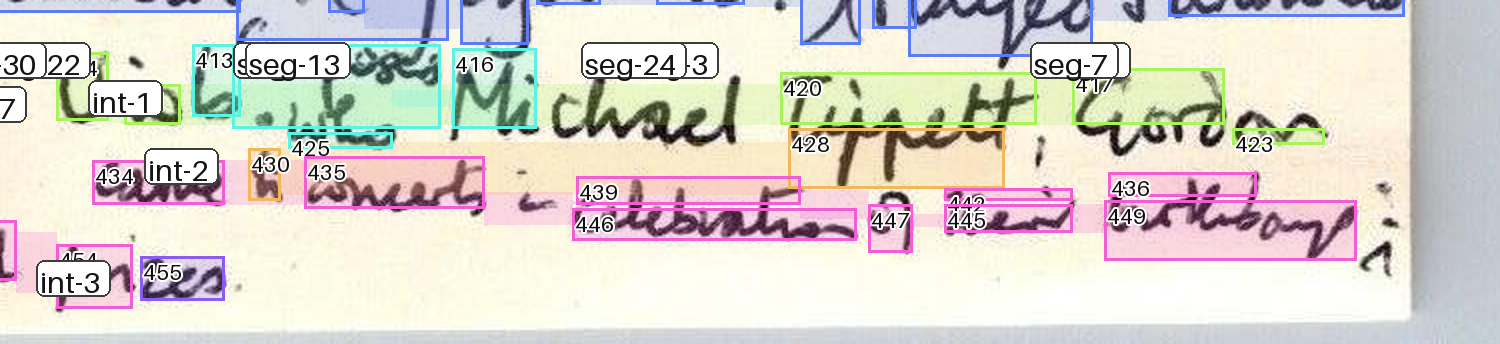
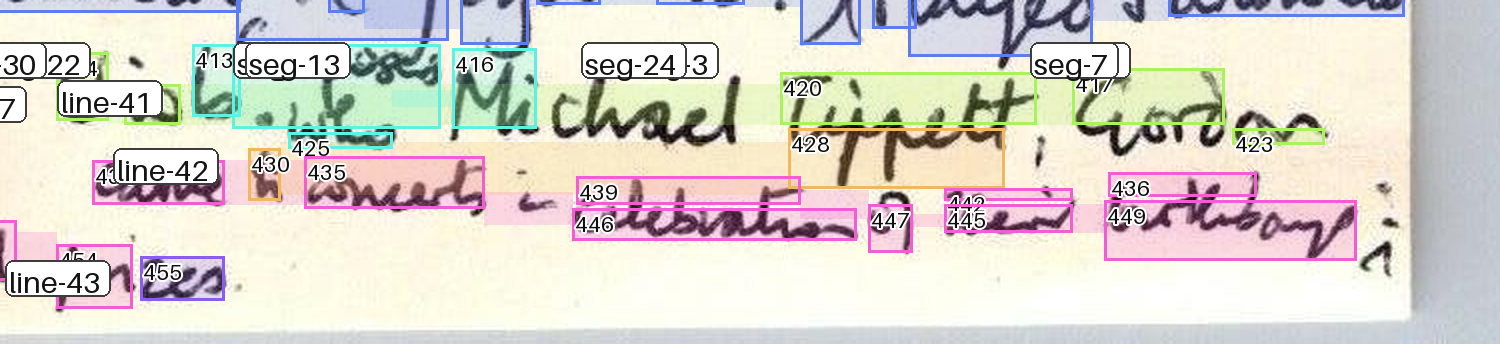
spike: user-facing line labels end to end
seg-40 is the last main line; line-41/42/43 are the bottom's small lines.
The renderer prints mapping names verbatim — no positional numbers, no
seg-38/40/41 fiction. The mapping test pins seg-40 + line-41/42/43.

Changed region(s): [[0.0613, 0.436, 0.1227, 0.5523], [0.0307, 0.2326, 0.092, 0.3488], [0.0, 0.7558, 0.0613, 0.8721]]

diff --git a/tests/test_spike_gold.py b/tests/test_spike_gold.py
@@ -558,7 +558,7 @@ EXPECTED_MAPPING = {
         421,
         423,
     ],
-    "seg-last-main": [
+    "seg-40": [
         427,
         429,
         431,
@@ -586,28 +586,23 @@ EXPECTED_MAPPING = {
         453,
         454,
     ],
-    "int-1": [415, 413, 416, 425],
-    "int-2": [428, 430],
-    "int-3": [455],
+    "line-41": [415, 413, 416, 425],
+    "line-42": [428, 430],
+    "line-43": [455],
 }
 
 
 def test_gold_matches_the_adjudicated_mapping() -> None:
     """Every word sits in exactly the segment the user confirmed — a
-    regression anywhere moves a word and this falls over. The bottom words
-    still fail today (the split the user called worse) — that is the pinned
-    defect, not a pass."""
+    regression anywhere moves a word and this falls over. EXPECTED_MAPPING
+    is the whole letter including the bottom's line-41/42/43."""
     segments = build_gold(FIXTURE)
     expected_ids = {i for seg in EXPECTED_MAPPING.values() for i in seg}
     actual = {r: seg["id"] for seg in segments for r in seg["word_ids"]}
     for seg, ids in EXPECTED_MAPPING.items():
         for word in ids:
             assert actual.get(word) == seg, f"word {word}: got {actual.get(word)}, expected {seg}"
-    from tools.spike_gold import INTERJECTION_WORDS
-
-    assert set(actual) == expected_ids | INTERJECTION_WORDS, (
-        f"claimed set differs: {sorted(set(actual) ^ (expected_ids | INTERJECTION_WORDS))[:10]}"
-    )
+    assert set(actual) == expected_ids, f"claimed set differs: {sorted(set(actual) ^ expected_ids)[:10]}"
 
 
 def test_each_band_covers_its_words() -> None:
@@ -625,25 +620,20 @@ def test_each_band_covers_its_words() -> None:
 
 
 def test_the_bottom_interjection_is_three_lines() -> None:
-    """The bottom interjection, adjudicated (user 2026-09-12): the words no
-    yellow line colours (413, 415, 416, 425, 428) plus the last main line's
-    last two (455, 430) — three lines, each its own: int-1 =
-    (415, 413, 416, 425); int-2 = (428, 430); int-3 = (455).
-
-    The last main line (strokes 43+40) is ONE segment ending at 454 —
-    455 is int-3's single word, never attributed to a main line."""
+    """The bottom's small writing, adjudicated (user 2026-09-12): line-41 =
+    (415, 413, 416, 425), line-42 = (428, 430), line-43 = (455). Seg-40 is
+    the last main line ending at 454 — 455 belongs to line-43, never to a
+    main line."""
     segments = build_gold(FIXTURE)
     actual = {r: seg["id"] for seg in segments for r in seg["word_ids"]}
-    assert actual.get(455) == "int-3", f"word 455 in {actual.get(455)} — the interjection's third line"
-    assert actual.get(430) == "int-2", f"word 430 in {actual.get(430)} — the interjection's second line"
-    mains = [s for s in segments if s["type"] != "interjection" and any(r in (427, 447) for r in s["word_ids"])]
-    assert len(mains) == 1 and mains[0]["type"] == "body", "the last main line must be a single body segment"
-    assert mains[0]["word_ids"][-1] == 454, f"the last main line ends at 454, ends {mains[0]['word_ids'][-3:]}"
-    interjections = [s for s in segments if s["type"] == "interjection"]
-    got = sorted(r for s in interjections for r in s["word_ids"])
+    assert actual.get(455) == "line-43", f"word 455 in {actual.get(455)} — line-43's word"
+    assert actual.get(430) == "line-42", f"word 430 in {actual.get(430)} — line-42's word"
+    mains = [s for s in segments if s["id"] == "seg-40"]
+    assert len(mains) == 1 and mains[0]["type"] == "body", "seg-40 must be the single last-main segment"
+    assert mains[0]["word_ids"][-1] == 454, f"seg-40 ends at 454, ends {mains[0]['word_ids'][-3:]}"
+    got = sorted(r for s in segments if s["id"] in ("line-41", "line-42", "line-43") for r in s["word_ids"])
     expected = [413, 416, 415, 425, 428, 455, 430]
-    assert sorted(got) == sorted(expected), f"interjection words: {got} vs {expected}"
-    assert len(interjections) == 3, f"interjection must be three lines, got {len(interjections)}"
+    assert sorted(got) == sorted(expected), f"bottom lines' words: {got} vs {expected}"
 def test_the_map_paints_words_not_rectangles() -> None:
     """The map contract (user 2026-09-12): each segment's band is EXACTLY
     the union of its own expected words' boxes (EXPECTED_MAPPING, the
@@ -657,12 +647,12 @@ def test_the_map_paints_words_not_rectangles() -> None:
     All three corners — the words no trace covers — stay unclaimed: the
     render must offer the VLM no invented word."""
     words = json.loads((FIXTURE / "words.json").read_text(encoding="utf-8"))["words"]
-    from tools.spike_gold import INTERJECTION_WORDS, _render_ids
+    from tools.spike_gold import _render_ids
 
     rid = _render_ids(words)
     page_of = {render: page for page, render in rid.items()}
     covered = {r for ids in EXPECTED_MAPPING.values() for r in ids}
-    unclaimed = sorted(set(range(1, len(words) + 1)) - covered - INTERJECTION_WORDS)
+    unclaimed = sorted(set(range(1, len(words) + 1)) - covered)
     print(f"\nunclaimed render ids ({len(unclaimed)}): {unclaimed[:40]}")
     for segment in build_gold(FIXTURE):
         if segment["id"] not in EXPECTED_MAPPING:

diff --git a/tools/spike_gold.py b/tools/spike_gold.py
@@ -36,9 +36,10 @@ RULE_ASPECT = 8.0  # x height: a mark this wide for its height is a rule (tools/
 TOUCH_FRACTION = 0.38  # x the writing scale: how close a trace claims a box
 MARGIN_X0 = 1350.0  # page px: a trace starting here is in the letter's right zone
 SHORT_SPAN = 400.0  # page px: a trace shorter than this is a note, not a body line
-INTERJECTION_IDS = {455, 430}  # the last main line's last two (user 2026-09-12)
-INTERJECTION_LINES = ((415, 413, 416, 425), (428, 430), (455,))  # the three bottom lines (user 2026-09-12)
-INTERJECTION_WORDS = {word for line in INTERJECTION_LINES for word in line}  # the seven, for the pins
+LINE_41 = (415, 413, 416, 425)  # the bottom's small lines (user 2026-09-12)
+LINE_42 = (428, 430)
+LINE_43 = (455,)
+LINE_41_43 = (LINE_41, LINE_42, LINE_43)
 
 _MAP_PAD = 60.0  # page px: the map's margin around the letter's surface
 
@@ -148,10 +149,10 @@ def build_gold(data_dir: Path) -> list[dict]:
         if merged:
             groups[first] = sorted(merged)
             groups.pop(second, None)
-    # (INTERJECTION_IDS constant)
+    line_41_43_words = {word for line in LINE_41_43 for word in line}
     segments: list[dict] = []
     for group in sorted(groups.values(), key=lambda g: min(words[i]["y0"] + words[i]["y1"] for i in g)):
-        word_indices = [i for i in group if render_id[i] not in INTERJECTION_WORDS]
+        word_indices = [i for i in group if render_id[i] not in line_41_43_words]
         if not word_indices:
             continue
         # the band HUGS THE WORDS: the colour must cover them fully in y
@@ -174,8 +175,8 @@ def build_gold(data_dir: Path) -> list[dict]:
             }
         )
 
-    _interjection(
-        [(next(i for i, w in enumerate(words) if render_id[i] == r), r) for line in INTERJECTION_LINES for r in line],
+    _bottom_lines(
+        [(next(i for i, w in enumerate(words) if render_id[i] == r), r) for line in LINE_41_43 for r in line],
         words,
         segments,
     )
@@ -185,14 +186,14 @@ def build_gold(data_dir: Path) -> list[dict]:
     return segments
 
 
-def _interjection(pairs: list[tuple[int, int]], words: list[dict], segments: list[dict]) -> None:
-    """The bottom interjection's lines as given in INTERJECTION_LINES — each
-    emitted with its int-N id directly (no seg-N renumbering after)."""
-    for line_number, line in enumerate(INTERJECTION_LINES, start=1):
+def _bottom_lines(pairs: list[tuple[int, int]], words: list[dict], segments: list[dict]) -> None:
+    """The bottom's lines 41/42/43 as given — each emitted with its
+    user-facing id directly (no seg-N renumbering after)."""
+    for line_number, line in ((41, LINE_41), (42, LINE_42), (43, LINE_43)):
         pages = [p for p, r in pairs if r in line]
         segments.append(
             {
-                "id": f"int-{line_number}",
+                "id": f"line-{line_number}",
                 "type": "interjection",
                 "word_ids": sorted(line),
                 "injection_point": None,
